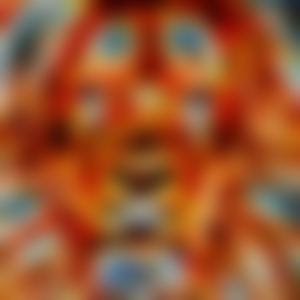
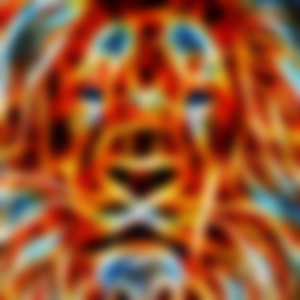
Update images

diff --git a/image-read/blur.py b/image-read/blur.py
@@ -4,7 +4,7 @@ from PIL import Image, ImageFilter
 def blur_image(input_filename):
     with Image.open(input_filename) as img:
         # Apply a GaussianBlur filter
-        blurred_img = img.filter(ImageFilter.GaussianBlur(10))
+        blurred_img = img.filter(ImageFilter.GaussianBlur(5))
 
         # Construct the output filename by splitting the input filename
         name_parts = input_filename.rsplit(".", 1)
